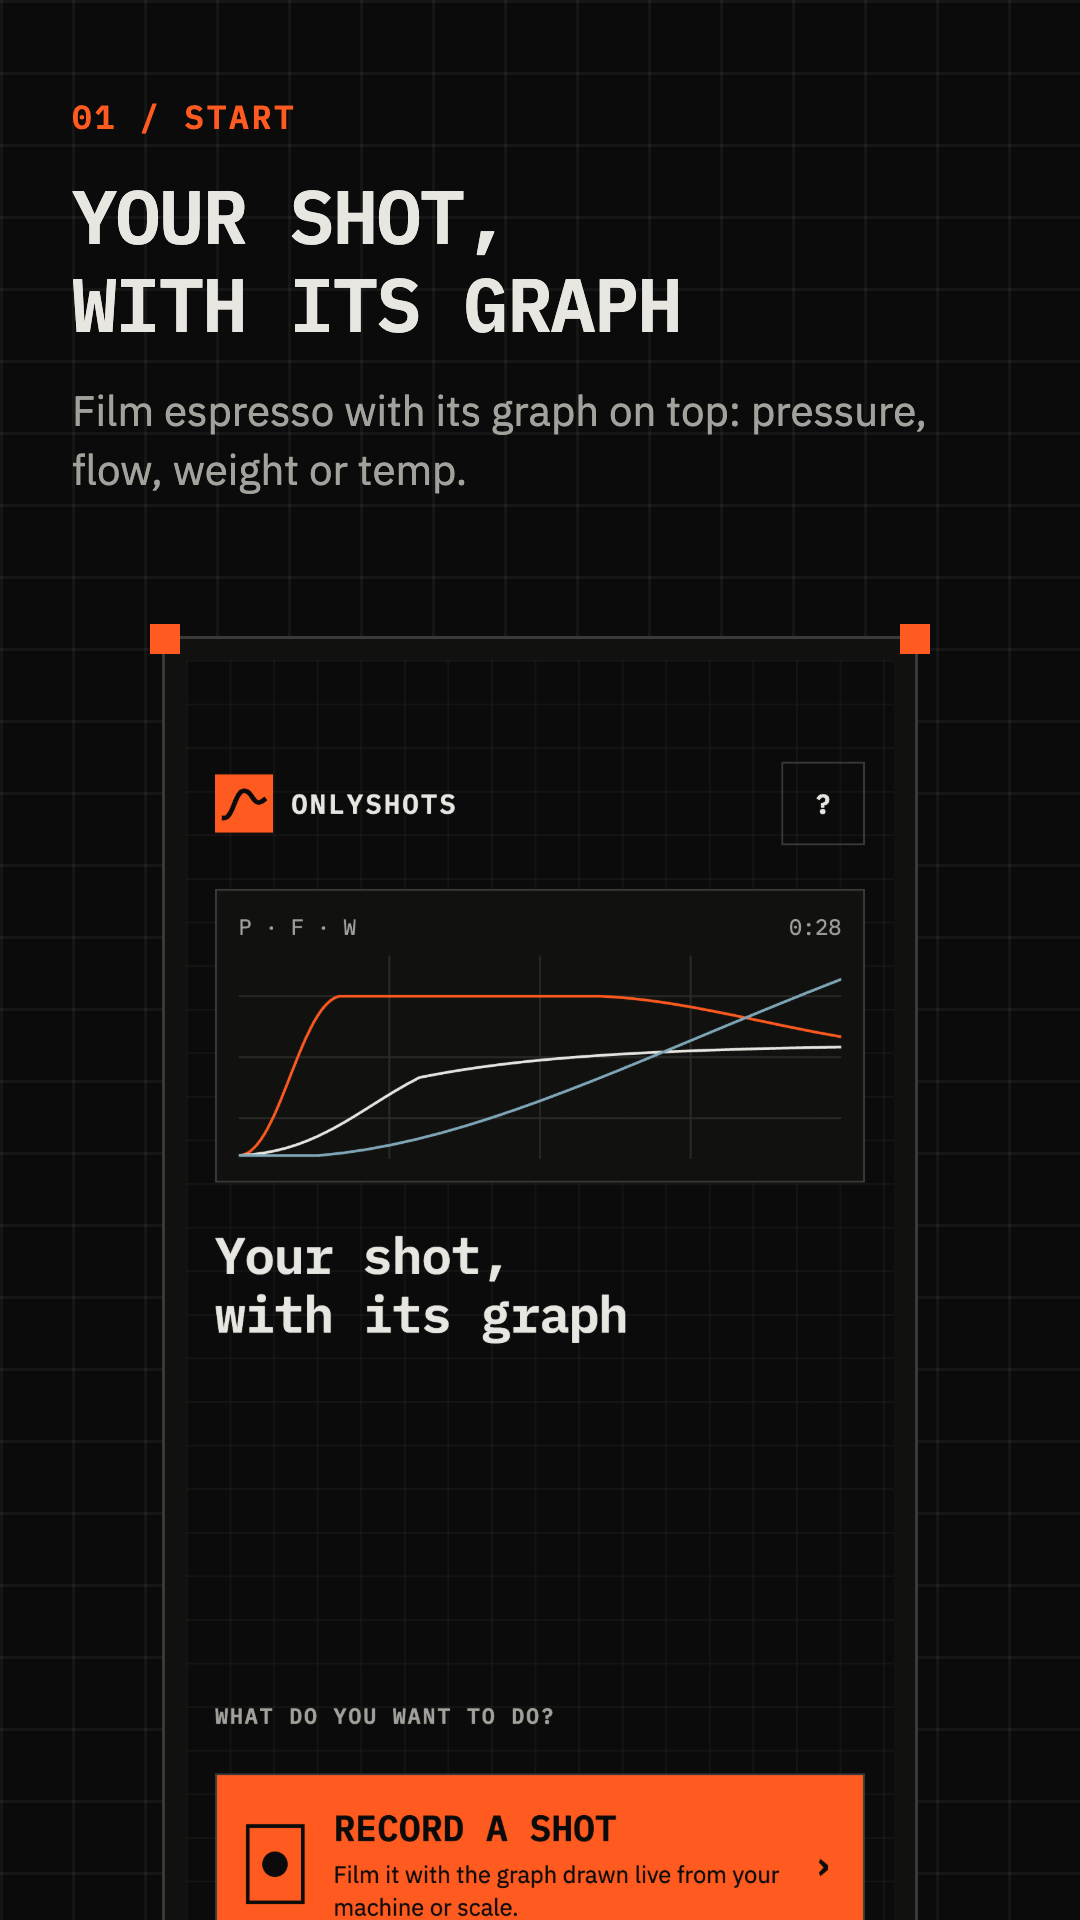
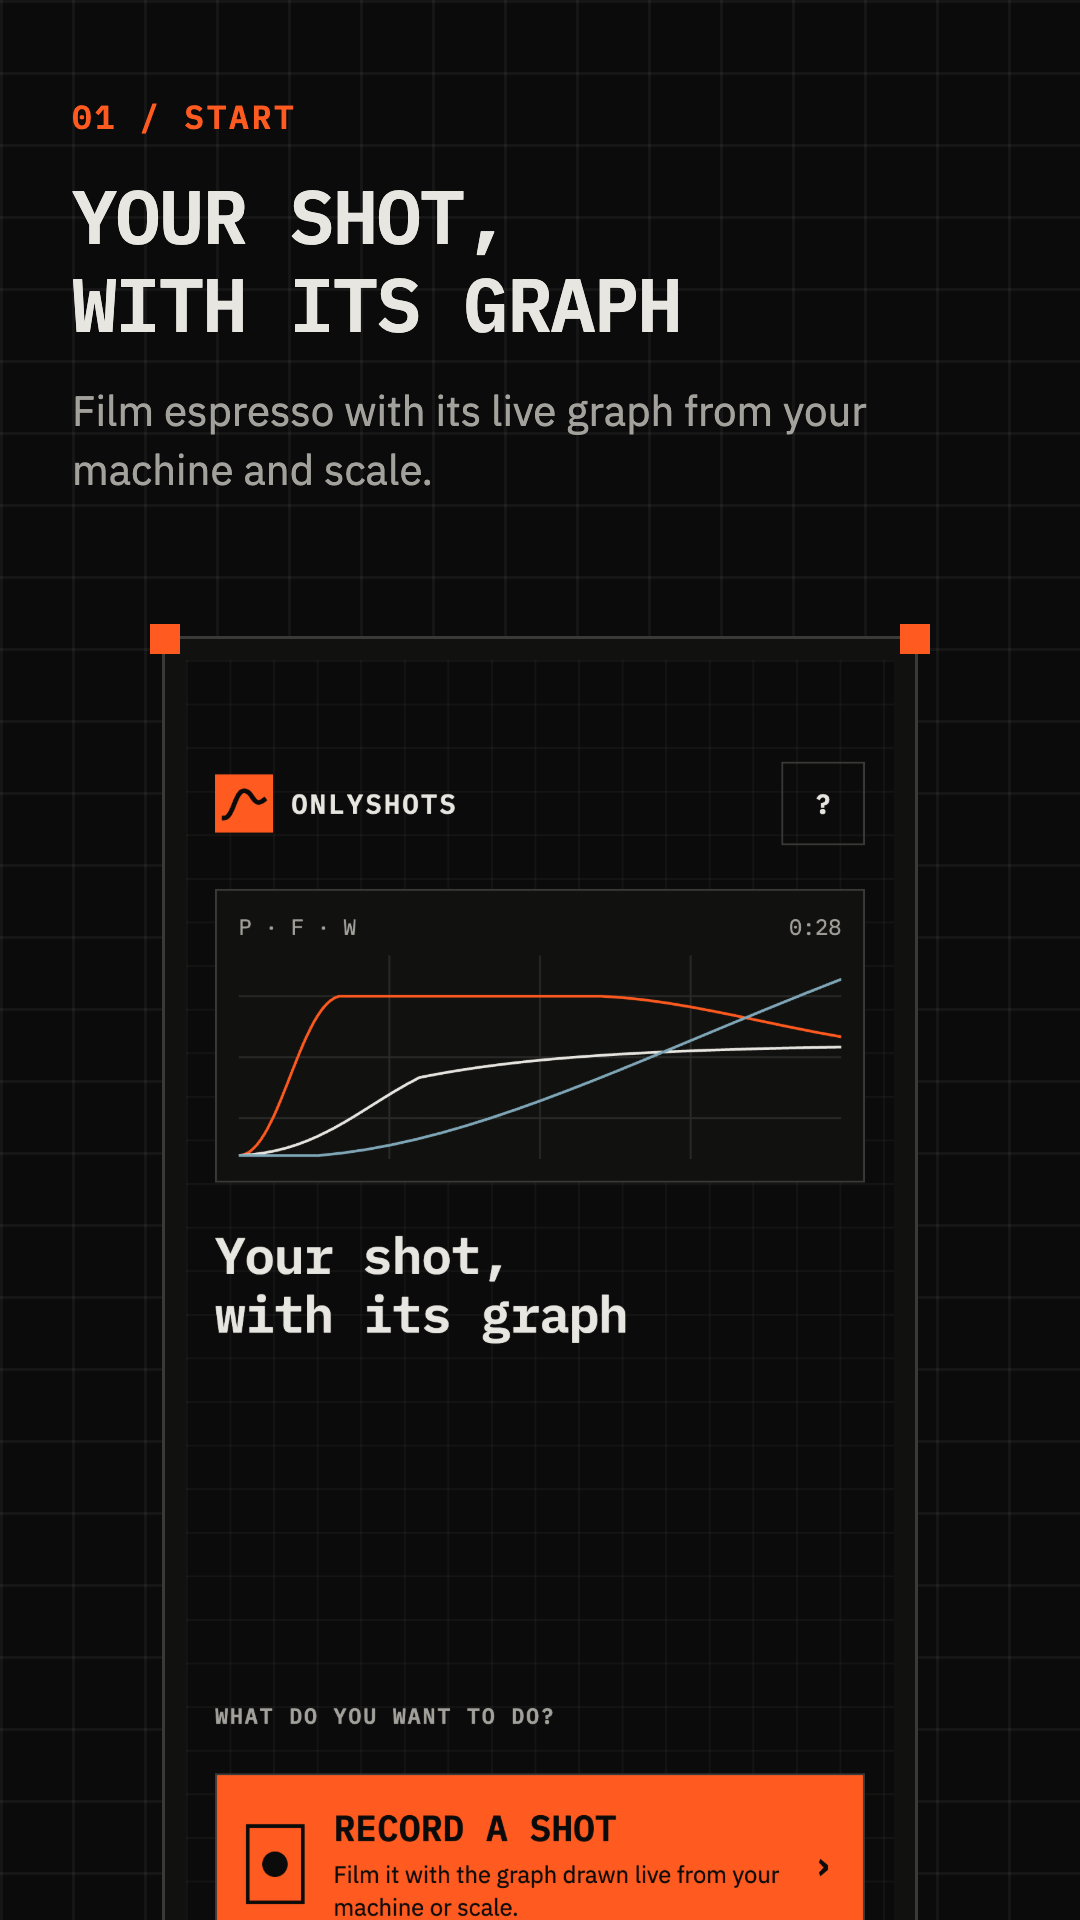
Store listing and art: name no metrics, other machines will bring their own

Changed region(s): [[0.4583, 0.1875, 0.8556, 0.25], [0.0611, 0.2188, 0.4278, 0.2812]]

diff --git a/design/store/compose.py b/design/store/compose.py
@@ -24,7 +24,7 @@ LOGO = HERE.parent / "logo" / "kit"
 INK, BONE, SIGNAL, LINE, MUTE, BLUE = "#0B0B0B", "#E8E6E1", "#FF5A1F", "#3A3A38", "#A3A19B", "#7FA7B8"
 
 PHONE = [
-    ("Main", "01 / START", "YOUR SHOT,\nWITH ITS GRAPH", "Film espresso with its graph on top: pressure, flow, weight or temp."),
+    ("Main", "01 / START", "YOUR SHOT,\nWITH ITS GRAPH", "Film espresso with its live graph from your machine and scale."),
     ("Home-Found", "02 / CONNECT", "FINDS YOUR\nMACHINE AND SCALE", "Gaggiuino over Wi-Fi, scales over Bluetooth."),
     ("Rec-Recording", "03 / RECORD", "STARTS WHEN\nTHE SHOT DOES", "Recording follows the brew switch."),
     ("Rec-Graph", "04 / PLACE", "THE GRAPH WHERE\nYOU WANT IT", "Drag it, resize it, pick what it shows."),
@@ -115,7 +115,7 @@ def feature() -> str:
         f'<svg width="420" height="280" style="position:absolute;left:-1px;top:-1px">{paths}</svg>{ticks(418, 278, 12)}</div>'
     )
     logo = f'<img src="{(LOGO / "onlyshots-horizontal-on-dark.svg").as_uri()}" style="position:absolute;left:64px;top:154px;height:64px">'
-    body = logo + copy(64, 250, 400, None, "YOUR SHOT,\nWITH ITS GRAPH", "Record espresso with its live graph: pressure, flow, weight or temp.", 30) + card
+    body = logo + copy(64, 250, 400, None, "YOUR SHOT,\nWITH ITS GRAPH", "Record espresso with its live graph from your machine and scale.", 30) + card
     return frame(1024, 500, 25, body)
 
 

diff --git a/design/store/README.md b/design/store/README.md
@@ -24,7 +24,7 @@ https://claude.ai/artifact/LTQSexsdusFXLmyuTFNVSa).
 
 | # | Phone screen | Headline | Line |
 | --- | --- | --- | --- |
-| 1 | `Main` | YOUR SHOT, WITH ITS GRAPH | Film espresso with its graph on top: pressure, flow, weight or temp. |
+| 1 | `Main` | YOUR SHOT, WITH ITS GRAPH | Film espresso with its live graph from your machine and scale. |
 | 2 | `Home-Found` | FINDS YOUR MACHINE AND SCALE | Gaggiuino over Wi-Fi, scales over Bluetooth. |
 | 3 | `Rec-Recording` | STARTS WHEN THE SHOT DOES | Recording follows the brew switch. |
 | 4 | `Rec-Graph` | THE GRAPH WHERE YOU WANT IT | Drag it, resize it, pick what it shows. |
